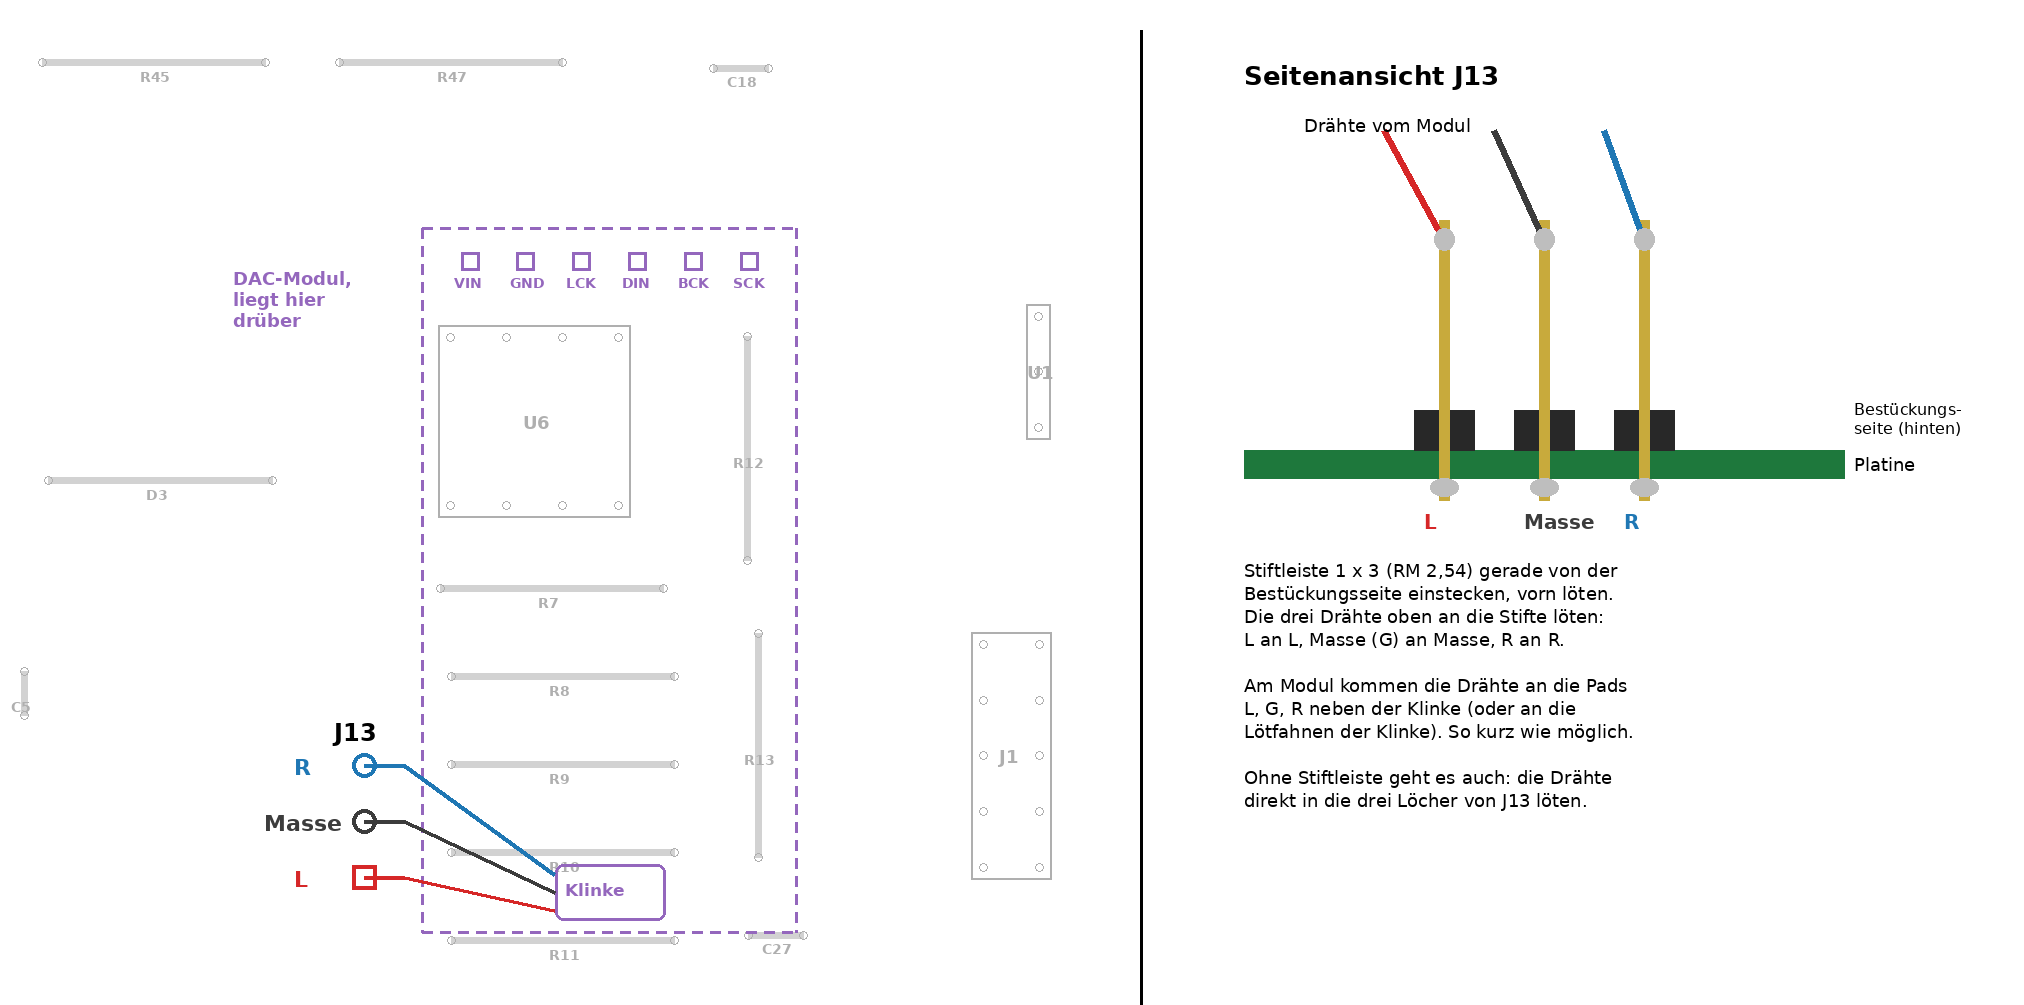
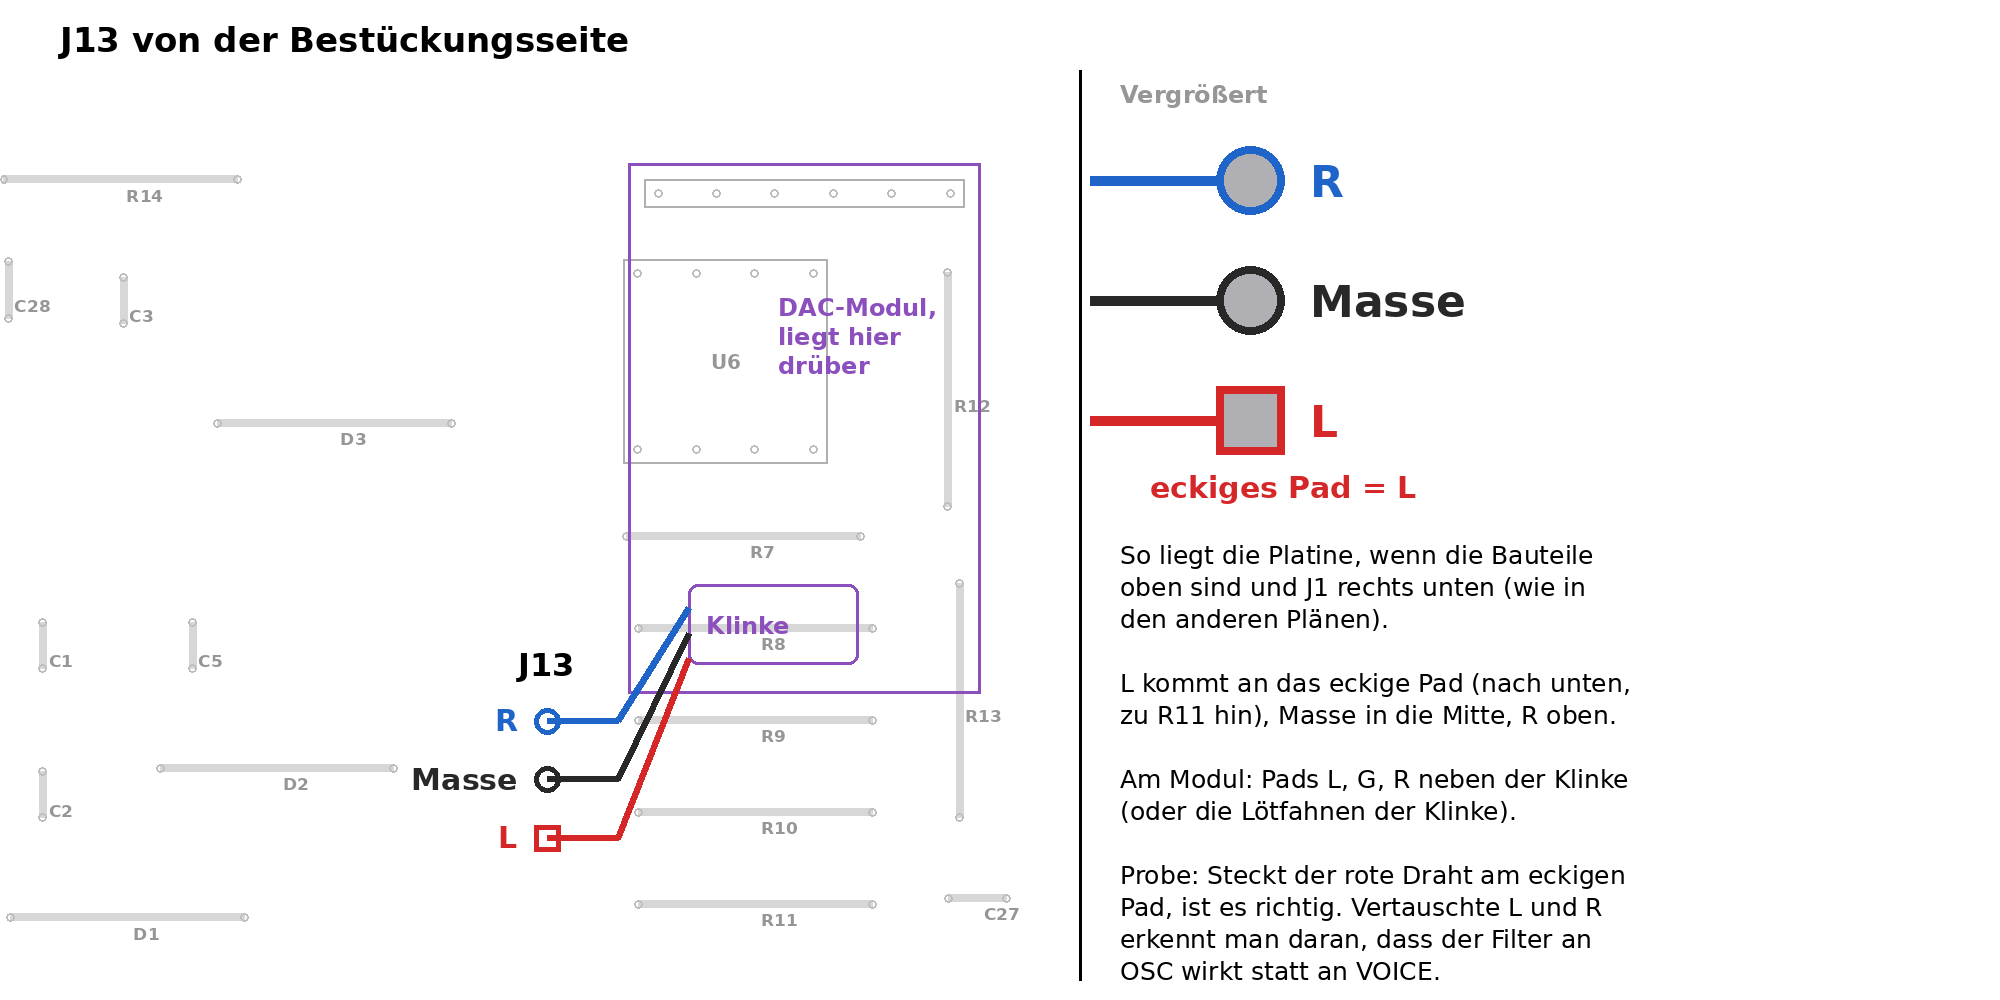
Modul-Bauanleitung: J13 und Lötbrücken als Zeichnung
Die Seitenansicht von J13 sagte nicht, von welcher Seite sie schaut;
so wurden an einem Modul L und R vertauscht und der Filter wirkte an
OSC statt an VOICE. Jetzt J13 von der Bestückungsseite mit vergrößertem
Ausschnitt (L am eckigen Pad) und eine Zeichnung der vier Lötbrücken
des GY-PCM5102 mit Durchgangsprüfung, deutsch und englisch, aus
hardware/tools/plan-j13.py. Fehlersuche um den vertauschten Fall ergänzt.

Claude-Session: https://claude.ai/code/session_012St5KoJUWQ8RocFG4tbb4R

diff --git a/website/en/modul/bauanleitung.html b/website/en/modul/bauanleitung.html
@@ -220,10 +220,14 @@
         </tbody>
       </table>
     </div>
-    <p>Some modules come set this way already or without jumpers at all. SCK needs no wire, the board ties it to ground. Solder the pin header so that the module's labels match those on the main board (VIN GND LCK DIN BCK SCK). Then three short wires from the pads L, G, R next to the module's jack (or its solder lugs) to J13: L, ground, R. L is at J13's square pad, ground is the middle pin.</p>
     <figure>
-      <a href="../../modul/img/haupt-j13.png"><img src="../../modul/img/haupt-j13.png" alt="Wiring from the DAC module to J13, from above and from the side" width="2024" height="1005"></a>
-      <figcaption>Three wires from the module to J13, on the left from above (component side), on the right from the side.</figcaption>
+      <a href="../../modul/img/dac-loetbruecken-en.png"><img src="../../modul/img/dac-loetbruecken-en.png" alt="The four solder jumpers of the GY-PCM5102: 1, 2 and 4 to L, 3 to H" width="1100" height="900" class="narrow"></a>
+      <figcaption>The blob of solder joins the middle pad to H or L. Which side is H is printed as a letter on the module; the layout may differ from the drawing.</figcaption>
+    </figure>
+    <p>Some modules come set this way already or without jumpers at all. SCK needs no wire, the board ties it to ground. Solder the pin header so that the module's labels match those on the main board (VIN GND LCK DIN BCK SCK). Then three short wires from the pads L, G, R next to the module's jack (or its solder lugs) to J13: L, ground, R. L is at J13's square pad, ground is the middle pin. With L and R swapped, the filter acts on the OSC output instead of VOICE.</p>
+    <figure>
+      <a href="../../modul/img/haupt-j13-en.png"><img src="../../modul/img/haupt-j13-en.png" alt="Wiring from the DAC module to J13 from the component side: R on top, ground in the middle, L at the square pad below" width="2000" height="1000"></a>
+      <figcaption>Three wires from the module to J13, seen from the component side, J1 at the bottom right as in the other plans. On the right J13 enlarged: L belongs on the square pad.</figcaption>
     </figure>
 
     <h2 id="bedienplatine">5. Soldering the control board</h2>
@@ -373,6 +377,8 @@
     <dl class="tools">
       <dt>No sound, LEDs light normally</dt>
       <dd>Solder jumpers on the DAC module (step 4, especially 3 XSMT on H), the three wires to J13, is the TL072 the right way round? Listen at the DAC module's jack (headphones only quietly and not on your ears): if it sounds there, the fault lies between J13 and the output jacks (U6, R9–R14).</dd>
+      <dt>The filter acts on OSC instead of VOICE</dt>
+      <dd>L and R at J13 are swapped (step 4): L belongs on the square pad. Swap the two outer wires.</dd>
       <dt>No sound on the first start</dt>
       <dd>The tables are still being computed (step 8). Wait until the LEDs show the colours of the modes.</dd>
       <dt>LEDs dark</dt>

diff --git a/website/modul/bauanleitung.html b/website/modul/bauanleitung.html
@@ -220,10 +220,14 @@
         </tbody>
       </table>
     </div>
-    <p>Manche Module kommen schon so oder ganz ohne Brücken. SCK braucht keinen Draht, die Platine legt ihn an Masse. Die Stiftleiste so einlöten, dass die Beschriftung des Moduls zu der auf der Hauptplatine passt (VIN GND LCK DIN BCK SCK). Dann drei kurze Drähte von den Pads L, G, R neben der Klinke des Moduls (oder deren Lötfahnen) zu J13: L, Masse, R. Am eckigen Pad von J13 liegt L, Masse ist der mittlere Stift.</p>
     <figure>
-      <a href="img/haupt-j13.png"><img src="img/haupt-j13.png" alt="Verdrahtung vom DAC-Modul zu J13, von oben und von der Seite" width="2024" height="1005"></a>
-      <figcaption>Drei Drähte vom Modul zu J13, links von oben (Bestückungsseite), rechts von der Seite.</figcaption>
+      <a href="img/dac-loetbruecken.png"><img src="img/dac-loetbruecken.png" alt="Die vier Lötbrücken des GY-PCM5102: 1, 2 und 4 auf L, 3 auf H" width="1100" height="900" class="narrow"></a>
+      <figcaption>Der Zinnklecks verbindet das mittlere Pad mit H oder L. Welche Seite H ist, steht als Buchstabe auf dem Modul; die Lage kann von der Zeichnung abweichen.</figcaption>
+    </figure>
+    <p>Manche Module kommen schon so oder ganz ohne Brücken. SCK braucht keinen Draht, die Platine legt ihn an Masse. Die Stiftleiste so einlöten, dass die Beschriftung des Moduls zu der auf der Hauptplatine passt (VIN GND LCK DIN BCK SCK). Dann drei kurze Drähte von den Pads L, G, R neben der Klinke des Moduls (oder deren Lötfahnen) zu J13: L, Masse, R. Am eckigen Pad von J13 liegt L, Masse ist der mittlere Stift. Sind L und R vertauscht, wirkt der Filter am OSC-Ausgang statt an VOICE.</p>
+    <figure>
+      <a href="img/haupt-j13.png"><img src="img/haupt-j13.png" alt="Verdrahtung vom DAC-Modul zu J13 von der Bestückungsseite: R oben, Masse in der Mitte, L am eckigen Pad unten" width="2000" height="1000"></a>
+      <figcaption>Drei Drähte vom Modul zu J13, von der Bestückungsseite gesehen, J1 rechts unten wie in den anderen Plänen. Rechts J13 vergrößert: L gehört an das eckige Pad.</figcaption>
     </figure>
 
     <h2 id="bedienplatine">5. Bedienplatine löten</h2>
@@ -373,6 +377,8 @@
     <dl class="tools">
       <dt>Kein Ton, LEDs leuchten normal</dt>
       <dd>Lötbrücken auf dem DAC-Modul (Schritt 4, besonders 3 XSMT auf H), die drei Drähte zu J13, sitzt der TL072 richtig herum? An der Klinke des DAC-Moduls hören (Kopfhörer nur leise und nicht aufsetzen): klingt es dort, liegt der Fehler zwischen J13 und den Ausgangsbuchsen (U6, R9–R14).</dd>
+      <dt>Filter wirkt an OSC statt an VOICE</dt>
+      <dd>L und R an J13 sind vertauscht (Schritt 4): L gehört an das eckige Pad. Die beiden äußeren Drähte tauschen.</dd>
       <dt>Kein Ton beim ersten Start</dt>
       <dd>Die Tabellen werden noch berechnet (Schritt 8). Warten, bis die LEDs die Farben der Modi zeigen.</dd>
       <dt>LEDs dunkel</dt>

diff --git a/esp32-wavetable/hardware/tools/plan-j13.py b/esp32-wavetable/hardware/tools/plan-j13.py
@@ -1,0 +1,234 @@
+# Pictures for step 4 of BAUANLEITUNG (website/modul/bauanleitung.html): the three wires from the DAC module to J13,
+# seen from the soldering side like the other plans, and the four solder bridges on the back of the GY-PCM5102.
+# A side view of J13 used to stand here; it did not say from which side it looked, so L and R were soldered the wrong
+# way round on a module (2026-11-14). Everything is now drawn from above the assembled side, as the board lies.
+#
+#   python3 plan-j13.py <out dir>     writes haupt-j13.png, dac-loetbruecken.png and their -en copies
+import math
+import re
+import sys
+from pathlib import Path
+
+from PIL import Image, ImageDraw, ImageFont
+
+HERE = Path(__file__).resolve().parent
+PCB = HERE.parent / "pcb/tonwerk-haupt-tht/tonwerk-haupt-tht.kicad_pcb"
+FONTS = Path("/usr/share/fonts/truetype/dejavu")
+
+RED, BLACK, BLUE = (214, 39, 40), (40, 40, 40), (31, 100, 200)
+GREY, LIGHT, PURPLE = (150, 150, 150), (215, 215, 215), (140, 80, 190)
+TIN = (175, 175, 180)
+
+TEXT = {
+    "de": {
+        "title": "J13 von der Bestückungsseite",
+        "module": "DAC-Modul,\nliegt hier\ndrüber",
+        "jack": "Klinke",
+        "ground": "Masse",
+        "square": "eckiges Pad = L",
+        "close": "Vergrößert",
+        "notes": [
+            "So liegt die Platine, wenn die Bauteile",
+            "oben sind und J1 rechts unten (wie in",
+            "den anderen Plänen).",
+            "",
+            "L kommt an das eckige Pad (nach unten,",
+            "zu R11 hin), Masse in die Mitte, R oben.",
+            "",
+            "Am Modul: Pads L, G, R neben der Klinke",
+            "(oder die Lötfahnen der Klinke).",
+            "",
+            "Probe: Steckt der rote Draht am eckigen",
+            "Pad, ist es richtig. Vertauschte L und R",
+            "erkennt man daran, dass der Filter an",
+            "OSC wirkt statt an VOICE.",
+        ],
+        "middle": "Mitte",
+        "bridges": "Lötbrücken auf der Rückseite des GY-PCM5102",
+        "bridge_note": [
+            "Jede Brücke hat drei Pads. Ein Zinnklecks verbindet das mittlere mit H oder L.",
+            "Welche Seite H und welche L ist, steht als Buchstabe neben den Pads des Moduls;",
+            "das zählt, nicht die Lage in dieser Zeichnung.",
+            "",
+            "Prüfen: Durchgang vom mittleren Pad zu GND des Moduls. Bei 1, 2 und 4 piept es,",
+            "bei 3 nicht (dort liegen 3,3 V an, sobald das Modul Strom hat).",
+        ],
+        "rows": [("1", "FLT", "Filter", "L"), ("2", "DEMP", "De-Emphasis aus", "L"),
+                 ("3", "XSMT", "Ton an (nicht stumm)", "H"), ("4", "FMT", "Format I2S", "L")],
+    },
+    "en": {
+        "title": "J13 from the assembled side",
+        "module": "DAC module\nsits above\nhere",
+        "jack": "Jack",
+        "ground": "Ground",
+        "square": "square pad = L",
+        "close": "Enlarged",
+        "notes": [
+            "The board as it lies with the parts on",
+            "top and J1 at the bottom right (as in",
+            "the other plans).",
+            "",
+            "L goes to the square pad (downwards,",
+            "towards R11), ground in the middle, R on top.",
+            "",
+            "On the module: pads L, G, R beside the jack",
+            "(or the jack's solder tags).",
+            "",
+            "Check: the red wire sits on the square pad.",
+            "With L and R swapped, the filter acts on",
+            "OSC instead of VOICE.",
+        ],
+        "middle": "middle",
+        "bridges": "Solder jumpers on the back of the GY-PCM5102",
+        "bridge_note": [
+            "Each jumper has three pads. A blob of solder joins the middle one to H or L.",
+            "Which side is H and which L is printed beside the module's pads;",
+            "that counts, not where they lie in this drawing.",
+            "",
+            "Check: continuity from the middle pad to the module's GND. 1, 2 and 4 beep,",
+            "3 does not (it carries 3.3 V once the module has power).",
+        ],
+        "rows": [("1", "FLT", "Filter", "L"), ("2", "DEMP", "De-emphasis off", "L"),
+                 ("3", "XSMT", "Sound on (not muted)", "H"), ("4", "FMT", "Format I2S", "L")],
+    },
+}
+
+
+def font(size, bold=True):
+    return ImageFont.truetype(str(FONTS / ("DejaVuSans-Bold.ttf" if bold else "DejaVuSans.ttf")), size)
+
+
+def footprints():
+    s = PCB.read_text()
+    result = {}
+    for p in re.split(r"\n  \(footprint ", s)[1:]:
+        ref = re.search(r'(?:reference "|property "Reference" ")([^"]+)"', p).group(1)
+        x, y, a = re.search(r"\(at ([\d.\-]+) ([\d.\-]+)(?: ([\d.\-]+))?\)", p).groups()
+        x, y, a = float(x), float(y), math.radians(float(a or 0))
+        pads = {}
+        for num, shape, lx, ly in re.findall(r'\(pad "(\w*)" thru_hole (\w+) \(at ([\d.\-]+) ([\d.\-]+)', p):
+            lx, ly = float(lx), float(ly)
+            pads[num] = (x + lx * math.cos(a) + ly * math.sin(a), y - lx * math.sin(a) + ly * math.cos(a), shape)
+        result[ref] = pads
+    return result
+
+
+def board_view(t, fps):
+    """The DAC corner of the main board, in the plans' photo orientation, and J13 enlarged beside it."""
+    W, H = 2000, 1000
+    im = Image.new("RGB", (W, H), "white")
+    d = ImageDraw.Draw(im)
+    # The region around the DAC module, as in hauptplatine-messpunkte (x and y of the board swapped: seen from the
+    # assembled side with J1 at the bottom right).
+    S, X0, Y0, M = 23.0, 112.0, 130.0, 60.0
+
+    def P(b):
+        return (M + (b[1] - X0) * S, 90 + (b[0] - Y0) * S)
+
+    d.text((M, 20), t["title"], fill="black", font=font(34))
+    left = (0, 70, 1060, H)
+    for ref, pads in fps.items():
+        pts = [P(q) for q in pads.values()]
+        if not pts or ref == "J13":
+            continue
+        if not all(left[0] < x < left[2] - 20 and left[1] < y < left[3] - 20 for x, y in pts):
+            continue
+        if ref[0] in "UJQ":
+            x0 = min(q[0] for q in pts) - 14; x1 = max(q[0] for q in pts) + 14
+            y0 = min(q[1] for q in pts) - 14; y1 = max(q[1] for q in pts) + 14
+            d.rectangle([x0, y0, x1, y1], outline=(175, 175, 175), width=2)
+            if ref != "U5":
+                tw = d.textlength(ref, font=font(20))
+                d.text(((x0 + x1) / 2 - tw / 2, (y0 + y1) / 2 - 12), ref, fill=GREY, font=font(20))
+        elif len(pts) == 2:
+            d.line(pts, fill=LIGHT, width=8)
+            mx, my = (pts[0][0] + pts[1][0]) / 2, (pts[0][1] + pts[1][1]) / 2
+            d.text((mx + 6, my + 6), ref, fill=GREY, font=font(17))
+        for x, y in pts:
+            d.ellipse([x - 4, y - 4, x + 4, y + 4], outline=(190, 190, 190), width=2)
+
+    # The module above its socket, with its jack where the GY-PCM5102 has it.
+    u5 = [P(q) for q in fps["U5"].values()]
+    mx0 = min(q[0] for q in u5) - 30; mx1 = max(q[0] for q in u5) + 30
+    my0 = min(q[1] for q in u5) - 30
+    jack = (mx0 + 60, my0 + 420, mx0 + 230, my0 + 500)
+    d.rectangle([mx0, my0, mx1, jack[3] + 30], outline=PURPLE, width=3)
+    d.rounded_rectangle(jack, radius=10, outline=PURPLE, width=3)
+    d.text((jack[0] + 18, jack[1] + 28), t["jack"], fill=PURPLE, font=font(24))
+    d.multiline_text((mx0 + 150, my0 + 130), t["module"], fill=PURPLE, font=font(24), spacing=6)
+
+    # J13 and the wires, L at the square pad; the wires leave the jack in the order they arrive, so none cross.
+    pads = fps["J13"]
+    colours = {"1": RED, "2": BLACK, "3": BLUE}
+    names = {"1": "L", "2": t["ground"], "3": "R"}
+    order = sorted(("1", "2", "3"), key=lambda n: P(pads[n])[1])
+    for i, num in enumerate(order):
+        x, y = P(pads[num])
+        source = (jack[0], jack[1] + 25 + 25 * i)
+        d.line([source, (x + 70, y), (x, y)], fill=colours[num], width=6, joint="curve")
+        r = 13
+        if num == "1":
+            d.rectangle([x - r, y - r, x + r, y + r], outline=colours[num], width=5)
+        else:
+            d.ellipse([x - r, y - r, x + r, y + r], outline=colours[num], width=5)
+        tw = d.textlength(names[num], font=font(30))
+        d.text((x - 30 - tw, y - 18), names[num], fill=colours[num], font=font(30))
+    x, y = P(pads[order[0]])
+    d.text((x - 30, y - 75), "J13", fill="black", font=font(32))
+
+    # The enlarged J13 on the right, same orientation.
+    d.line([(1080, 70), (1080, H - 20)], fill="black", width=3)
+    cx, top = 1250, 120
+    d.text((1120, 80), t["close"], fill=GREY, font=font(24))
+    for i, num in enumerate(order):
+        y = top + 60 + i * 120
+        c = colours[num]
+        d.line([(cx - 160, y), (cx, y)], fill=c, width=10)
+        r = 34
+        if num == "1":
+            d.rectangle([cx - r, y - r, cx + r, y + r], outline=c, width=8, fill=TIN)
+        else:
+            d.ellipse([cx - r, y - r, cx + r, y + r], outline=c, width=8, fill=TIN)
+        d.text((cx + 60, y - 24), names[num], fill=c, font=font(44))
+    d.text((cx - 100, top + 60 + 2 * 120 + 50), t["square"], fill=RED, font=font(30))
+    d.multiline_text((1120, top + 420), "\n".join(t["notes"]), fill="black", font=font(25, False), spacing=8)
+    return im
+
+
+def bridges_view(t):
+    W, H = 1100, 900
+    im = Image.new("RGB", (W, H), "white")
+    d = ImageDraw.Draw(im)
+    d.text((40, 30), t["bridges"], fill="black", font=font(34))
+    pad, gap, x0, y0 = 70, 30, 120, 140
+    for i, (num, name, what, side) in enumerate(t["rows"]):
+        y = y0 + i * 130
+        d.text((40, y + 14), num, fill="black", font=font(40))
+        xs = [x0 + k * (pad + gap) for k in range(3)]
+        # The middle pad joined to H (left) or L (right) by a blob.
+        a, b = (xs[0], xs[1]) if side == "H" else (xs[1], xs[2])
+        d.rounded_rectangle([a, y, b + pad, y + pad], radius=26, fill=TIN)
+        for k, x in enumerate(xs):
+            d.rectangle([x + 8, y + 8, x + pad - 8, y + pad - 8], outline=(200, 140, 40), width=4)
+        d.text((xs[0] + 22, y + pad + 4), "H", fill=GREY, font=font(24))
+        d.text((xs[2] + 26, y + pad + 4), "L", fill=GREY, font=font(24))
+        mid = t["middle"]
+        d.text((xs[1] + pad / 2 - d.textlength(mid, font=font(18)) / 2, y + pad + 8), mid, fill=GREY, font=font(18))
+        d.text((x0 + 3 * (pad + gap) + 40, y + 6), f"{name}: {what}", fill="black", font=font(30))
+        c = BLUE if side == "H" else RED
+        d.text((x0 + 3 * (pad + gap) + 40, y + 44), f"→ {side}", fill=c, font=font(28))
+    d.multiline_text((40, y0 + 4 * 130 + 20), "\n".join(t["bridge_note"]), fill="black", font=font(24, False),
+                     spacing=8)
+    return im
+
+
+def main():
+    out = Path(sys.argv[1] if len(sys.argv) > 1 else ".")
+    fps = footprints()
+    for lang, suffix in (("de", ""), ("en", "-en")):
+        board_view(TEXT[lang], fps).save(out / f"haupt-j13{suffix}.png", optimize=True)
+        bridges_view(TEXT[lang]).save(out / f"dac-loetbruecken{suffix}.png", optimize=True)
+
+
+if __name__ == "__main__":
+    main()

diff --git a/esp32-wavetable/BAUANLEITUNG.md b/esp32-wavetable/BAUANLEITUNG.md
@@ -77,9 +77,15 @@ Auf der Rückseite des GY-PCM5102 sind vier Lötbrücken. Jede hat drei Pads; mi
 | 3 XSMT | Stummschaltung | **H** (Ton an) |
 | 4 FMT | Datenformat | **L** (I2S) |
 
+![Die vier Lötbrücken des GY-PCM5102](../website/modul/img/dac-loetbruecken.png)
+
+Welche Seite H und welche L ist, steht als Buchstabe neben den Pads des Moduls; die Lage kann von der Zeichnung abweichen. Zur Probe den Durchgang vom mittleren Pad zu GND des Moduls messen: bei 1, 2 und 4 piept es, bei 3 nicht.
+
 Manche Module kommen schon so oder ganz ohne Brücken. Den Pin SCK braucht man nicht extra zu verbinden: Die Platine legt ihn an Masse.
 
-Die Stiftleiste so einlöten, dass die Beschriftung des Moduls zu der auf der Hauptplatine passt (VIN GND LCK DIN BCK SCK). Dann drei kurze Drähte vom Ausgang des Moduls (die Lötfahnen der Klinkenbuchse oder die Pads L, G, R) zu J13: L, Masse, R.
+Die Stiftleiste so einlöten, dass die Beschriftung des Moduls zu der auf der Hauptplatine passt (VIN GND LCK DIN BCK SCK). Dann drei kurze Drähte vom Ausgang des Moduls (die Lötfahnen der Klinkenbuchse oder die Pads L, G, R) zu J13: L, Masse, R. **L gehört an das eckige Pad**, Masse in die Mitte. Sind L und R vertauscht, wirkt der Filter am OSC-Ausgang statt an VOICE.
+
+![J13 von der Bestückungsseite](../website/modul/img/haupt-j13.png)
 
 ## 5. Bedienplatine löten
 
@@ -163,6 +169,7 @@ Von Hand bleiben J1, U1, vorn J3 und J4 (wie Schritt 3, Punkt 11) und auf Wunsch
 ## Fehlersuche
 
 - **Kein Ton, LEDs leuchten normal:** Lötbrücken auf dem DAC-Modul (Schritt 4, besonders 3 XSMT auf H), die drei Drähte zu J13, sitzt der TL072 richtig herum? An der Klinkenbuchse des DAC-Moduls hören (Kopfhörer nur leise und nicht aufsetzen, dort kommen 2 Veff): Klingt es dort, liegt der Fehler zwischen J13 und den Ausgangsbuchsen (U6, R9–R14).
+- **Filter wirkt an OSC statt an VOICE:** L und R an J13 vertauscht (Schritt 4). L gehört an das eckige Pad; die beiden äußeren Drähte tauschen.
 - **Kein Ton beim ersten Start:** Die Tabellen werden noch berechnet (Schritt 8). Abwarten, bis die LEDs die Farben der Modi zeigen.
 - **LEDs dunkel:** U10 ein 74HC125 statt HCT? Pinfolge der LEDs (Schritt 1)? R48 (330 Ω) gelötet?
 - **LEDs in falschen Farben** (cyan erscheint lila, magenta türkis, grün rot): Die fertigen Images schicken Rot-Grün-Blau, wie es die APA106 (und PL9823) erwarten, die oft als WS2812D-F5 verkauft werden. Echte WS2812D-F5 von Worldsemi wollen Grün-Rot-Blau: die Firmware selbst bauen mit `-DTONWERK_LED_GRB=1` (z. B. `idf.py -DTONWERK_LED_GRB=1 build flash`).
